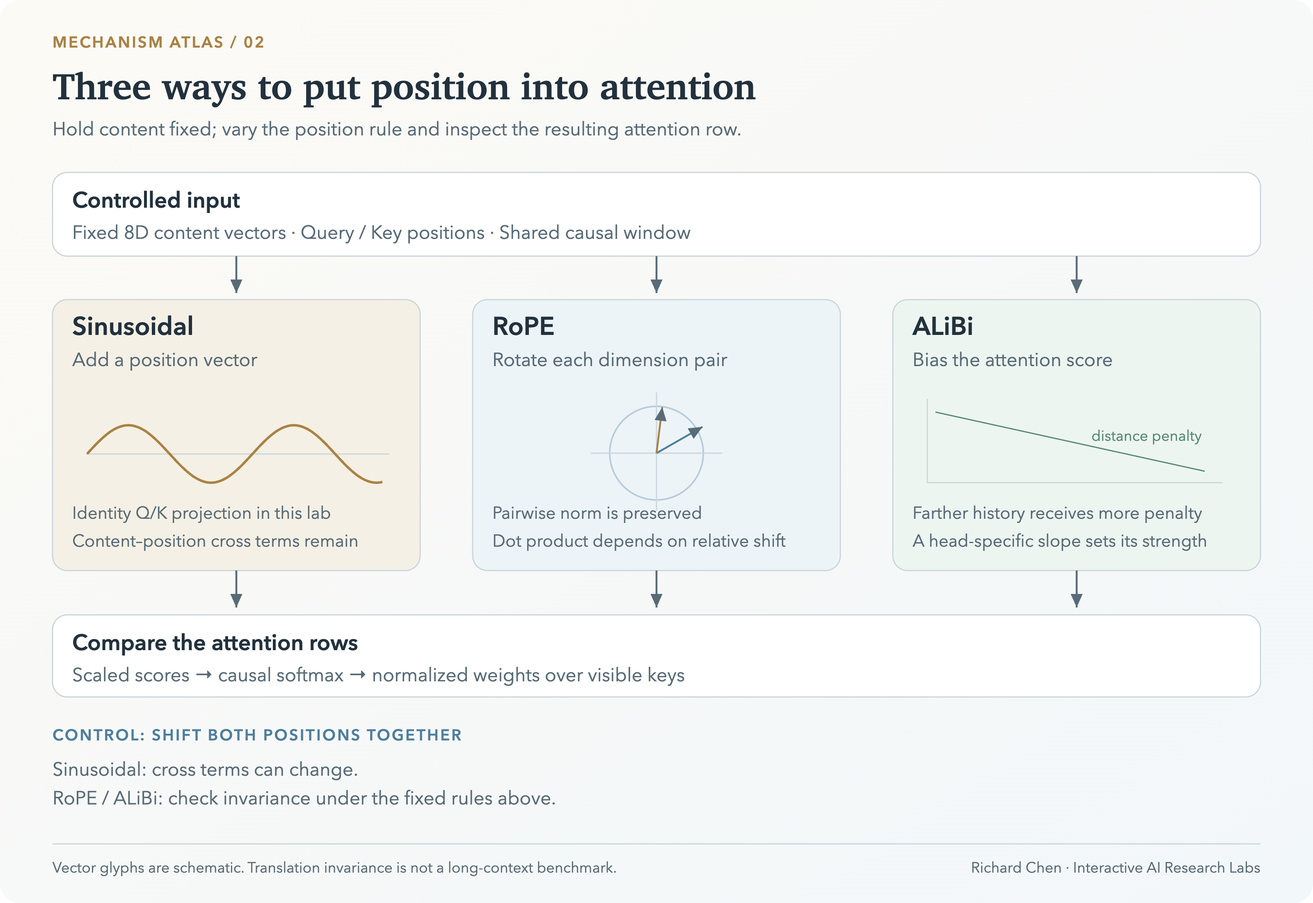
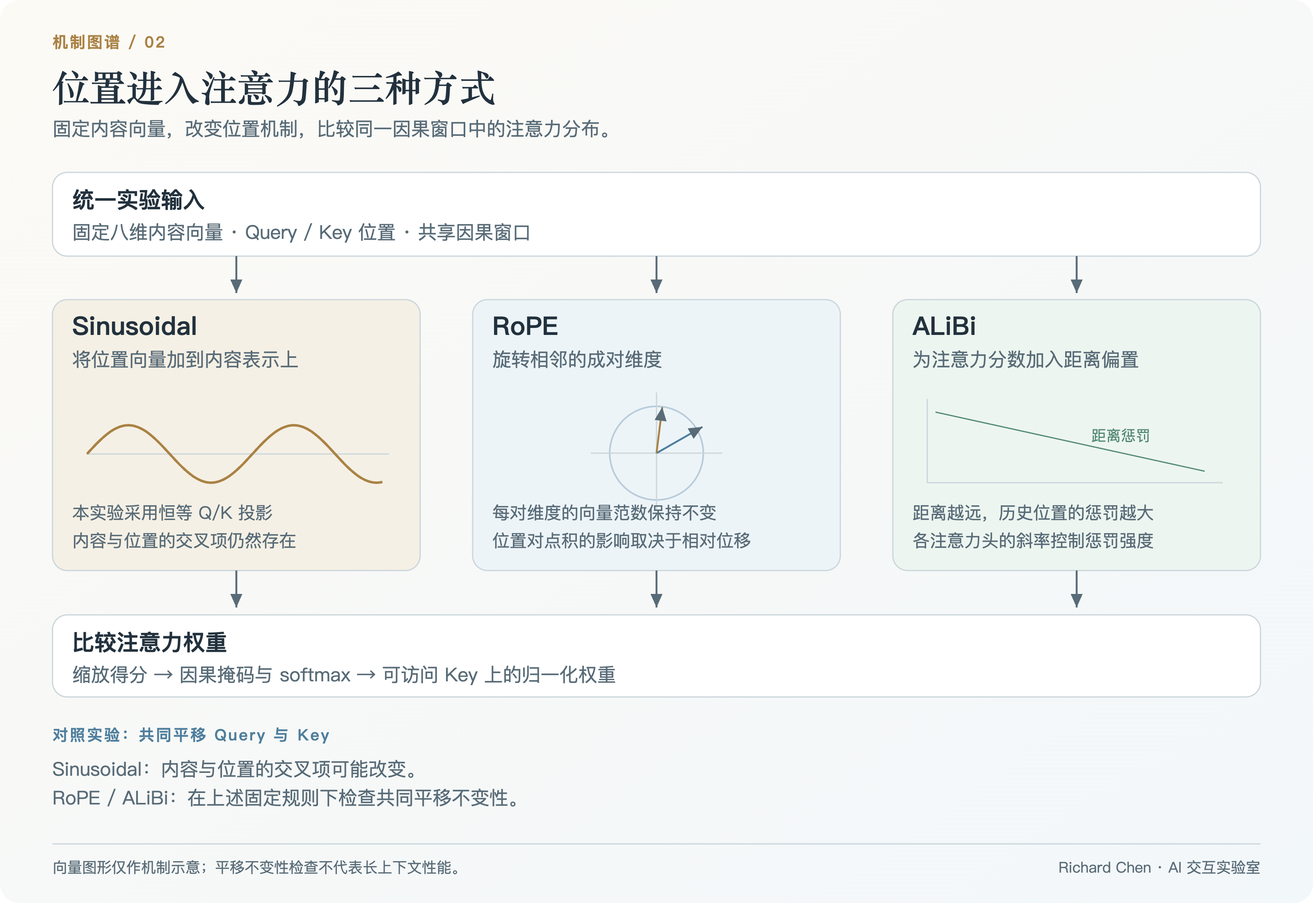
docs: 将中文设为默认文档并完善术语与框架图

diff --git a/README.md b/README.md
@@ -1,75 +1,75 @@
 # Position Encoding Lab
 
-**See how position becomes geometry.**
+**位置如何改变注意力：从向量几何到数值验证。**
 
-An interactive comparison of **Sinusoidal embeddings, RoPE, and ALiBi** under the same content vectors and causal window. Rotate a vector, shift a context, change a slope—and inspect exactly what happens to the attention score.
+在相同内容向量与因果窗口中，对比 **Sinusoidal、RoPE 和 ALiBi**。旋转向量、平移上下文、调节距离惩罚，再从注意力分数中检查每一次干预的结果。
 
-[**Open the lab ↗**](https://richardchen99.github.io/position-encoding-lab/) · [Research note · 中文](https://richardchen99.github.io/blog/position-encoding-lab-note/) · [中文 README](README.zh-CN.md) · [Quick start](#quick-start)
+[**进入实验室 ↗**](https://richardchen99.github.io/position-encoding-lab/) · [配套研究笔记](https://richardchen99.github.io/blog/position-encoding-lab-note/) · [English](README.en.md) · [本地运行](#本地运行)
 
-Created by **Richard Chen · Renmin University of China / 中国人民大学** · [Homepage](https://richardchen99.github.io)
+作者：**Richard Chen · 中国人民大学** · [个人主页](https://richardchen99.github.io)
 
-[![Position Encoding Lab showing rotary geometry, token selection, and attention comparison](docs/assets/overview.jpg)](https://richardchen99.github.io/position-encoding-lab/)
+[![位置编码实验室：旋转几何、token 选择与注意力对比](docs/assets/overview.jpg)](https://richardchen99.github.io/position-encoding-lab/)
 
-*Real application capture: vector geometry, numerical traces, and attention distributions share one experiment state.*
+*真实运行截图。向量几何、数值轨迹与注意力分布共享同一实验状态。*
 
-## Three mechanisms, one controlled experiment
+## 三种机制，一组受控实验
 
-| Mechanism | Intervention | What to inspect |
+| 机制 | 干预方式 | 观察重点 |
 | --- | --- | --- |
-| **Sinusoidal** | Add position vectors to fixed content | Content–position cross terms and the effect of moving the origin |
-| **RoPE** | Rotate adjacent dimension pairs | Preserved vector norms and relative-position dot products |
-| **ALiBi** | Subtract a distance-dependent score bias | How a head slope changes preference for recent keys |
-| **Shared comparison** | Shift Query and Key together | Which scores remain unchanged at a fixed relative distance |
+| **正弦位置编码（Sinusoidal）** | 将位置向量加到固定内容向量上 | 内容与位置的交叉项，以及原点移动的影响 |
+| **旋转位置编码（RoPE）** | 对相邻的成对维度进行旋转 | 向量范数保持，以及依赖相对位置的点积 |
+| **线性偏置（ALiBi）** | 在分数中减去距离惩罚 | 注意力头的斜率如何改变对较近 Key 的偏好 |
+| **共同对照** | 同时移动 Query 和 Key | 相对距离不变时，哪些分数保持不变 |
 
-Step through **content → position transform → score → softmax**, choose a dimension pair, and compare all three distributions side by side. Short and long sentence examples provide an intuitive frame; the fixed content vectors do not represent learned coreference. The interface uses English controls and Chinese explanations.
+逐步播放 **内容 → 位置变换 → 得分 → softmax**，选择参与旋转的维度对，并排检查三种注意力分布。长短句子用于建立直觉；内容向量固定，不表示已经学会指代关系。界面采用英文控件与中文解释，以下操作步骤保留控件原名，便于查找。
 
-## Experimental framework
+## 实验框架
 
-![Framework for comparing additive positions, rotary geometry, and linear attention bias under shared inputs](docs/assets/architecture.png)
+![共享输入经过位置相加、旋转与线性偏置三条路径，再进行数值对照](docs/assets/architecture.png)
 
-*Original schematic of the shared inputs, three mathematical branches, and numerical checks. [Editable SVG](docs/assets/architecture.svg) · [Figure provenance](docs/assets/README.md).*
+*原创框架图：统一输入、三条数学路径与对应检查。[可编辑 SVG](docs/assets/architecture.svg) · [图片来源与状态](docs/assets/README.md)。*
 
-## Try a translation-invariance test
+## 做一次平移不变性实验
 
-1. Select **RoPE**, use the short example with Query 5 and Key 1, and finish the four playback stages.
-2. Move **Shift both positions** from 0 to 24. The vectors rotate, while their relative-position score stays unchanged within floating-point precision.
-3. Select **Sinusoidal** and repeat. The additive experiment generally changes because its content–position cross terms depend on the origin.
-4. Select **ALiBi**, then increase **Head slope**. Distant causal keys receive a larger negative bias; shifting both positions preserves their distance.
+1. 选择 **RoPE**，在短句中使用 Query 5、Key 1，完成四个播放阶段。
+2. 将共同平移量（**Shift both positions**）从 0 调到 24。向量角度改变，但相对位置得分在浮点误差范围内保持不变。
+3. 切换 **Sinusoidal** 重复实验。位置相加后的内容/位置交叉项依赖原点，分数一般会变化。
+4. 切换 **ALiBi** 并增大注意力头斜率（**Head slope**）。更远的历史 Key 得到更大负偏置；共同平移仍保留相对距离。
 
-In the captured RoPE state, the displayed shift error is **zero**. This is a check of the implemented identity at display precision, not a long-context quality benchmark.
+截图中的 RoPE 平移误差显示为**零**。它是当前实现与显示精度下的恒等式检查，不是模型长上下文能力的基准测试。
 
 <details>
-<summary><strong>Inspect the shift test and attention comparison</strong></summary>
+<summary><strong>展开平移实验与注意力对比</strong></summary>
 
-![RoPE with Query 5, Key 1, shared position shift 24, and zero displayed score error](docs/assets/shift.jpg)
+![Query 5、Key 1、共同平移 24 的 RoPE 实验，得分误差显示为零](docs/assets/shift.jpg)
 
-*Common translation changes absolute angles while preserving the relative-position score.*
+*共同平移改变绝对角度，同时保留相对位置得分。*
 
-![Three attention distributions for the long sentence example with Query 11 and Key 2](docs/assets/comparison.jpg)
+![长句 Query 11、Key 2 下的三种注意力分布](docs/assets/comparison.jpg)
 
-*The longer example compares the three mechanisms under the same causal window.*
+*同一因果窗口中的三种位置机制，可以逐项对照。*
 
 </details>
 
-## Mathematical scope
+## 数学机制与实现范围
 
-RoPE applies a rotation to each adjacent dimension pair. With fixed frequencies:
+RoPE 对相邻维度对旋转。频率固定时：
 
 $$
 (R_mq)^\top(R_nk)=q^\top R_{n-m}k.
 $$
 
-ALiBi adds a linear penalty to causal attention scores:
+ALiBi 对因果注意力加入线性距离惩罚：
 
 $$
 s_{mn}=\frac{q_m^\top k_n}{\sqrt{d_k}}-a_h(m-n),\quad n\leq m.
 $$
 
-The Sinusoidal branch uses **fixed eight-dimensional content vectors, additive positions, and identity Q/K projections** to isolate the mechanism. Learned projections and trained model behavior are outside this experiment. The common-translation properties of RoPE and ALiBi do not establish extrapolation quality in a real language model.
+Sinusoidal 分支采用**固定八维内容向量、位置相加与恒等 Q/K 投影**，用于隔离机制。实验不涉及学习投影或训练模型。RoPE 与 ALiBi 的共同平移性质，不能直接证明真实语言模型的长度外推效果。
 
-## Quick start
+## 本地运行
 
-Use **Node.js 24**; the supported minimum is 22.12.
+推荐 **Node.js 24**，最低支持 22.12。
 
 ```bash
 git clone https://github.com/richardchen99/position-encoding-lab.git
@@ -84,36 +84,36 @@ npm run build
 npm run preview -- --host 127.0.0.1
 ```
 
-All experiment calculations run in the browser; no model service, API key, or GPU is required. Built with React 19, TypeScript, Vite, Framer Motion, and KaTeX.
+实验计算在浏览器内完成，无需模型服务、API 密钥或 GPU。技术栈为 React 19、TypeScript、Vite、Framer Motion 与 KaTeX。
 
-## Implementation and verification
+## 实现与验证
 
-| Entry point | Responsibility |
+| 入口 | 重点 |
 | --- | --- |
-| [`src/model.ts`](src/model.ts) | Position vectors, rotations, score biases, and stable softmax |
-| [`src/App.tsx`](src/App.tsx) | Experiment state, token selection, geometry, and numerical views |
-| [`src/shared.tsx`](src/shared.tsx) · [`src/style.css`](src/style.css) | Formulas, animation, glass panels, and reduced-motion support |
-| [`tests/model.test.mjs`](tests/model.test.mjs) | Norm preservation, relative-position identity, ALiBi invariance, and normalization |
+| [`src/model.ts`](src/model.ts) | 位置向量、旋转、分数偏置与稳定 softmax |
+| [`src/App.tsx`](src/App.tsx) | 实验状态、词元选择、几何与数值视图 |
+| [`src/shared.tsx`](src/shared.tsx) · [`src/style.css`](src/style.css) | 公式、动画、玻璃面板与减少动态效果的无障碍支持 |
+| [`tests/model.test.mjs`](tests/model.test.mjs) | 范数保持、相对位置恒等式、ALiBi 不变性与归一化 |
 
-`npm test` compiles the model and runs the Node test runner. The [Pages workflow](.github/workflows/deploy.yml) tests, type-checks, builds, and deploys `main` using Node 24. For a fork, select **GitHub Actions** as the Pages source.
+`npm test` 编译计算模型后，使用 Node 内置测试运行器执行验证。[Pages 工作流](.github/workflows/deploy.yml) 使用 Node 24 完成测试、类型检查、构建与 `main` 分支部署。Fork 仓库后，在 Pages 设置中将部署来源设为 **GitHub Actions** 即可部署。
 
-## Reading and citation
+## 阅读与引用
 
-- Vaswani et al. [*Attention Is All You Need*](https://arxiv.org/abs/1706.03762), 2017 — sinusoidal positional encoding.
-- Su et al. [*RoFormer: Enhanced Transformer with Rotary Position Embedding*](https://arxiv.org/abs/2104.09864), 2021 preprint — rotary position geometry.
-- Press et al. [*Train Short, Test Long: Attention with Linear Biases Enables Input Length Extrapolation*](https://arxiv.org/abs/2108.12409), 2021 preprint — ALiBi.
-- [Project research note](https://richardchen99.github.io/blog/position-encoding-lab-note/) — the experiment explained in Chinese.
+- Vaswani 等：[Attention Is All You Need](https://arxiv.org/abs/1706.03762)，2017，正弦位置编码。
+- Su 等：[RoFormer](https://arxiv.org/abs/2104.09864)，2021 预印本，旋转位置编码。
+- Press 等：[Train Short, Test Long](https://arxiv.org/abs/2108.12409)，2021 预印本，ALiBi。
+- [配套研究笔记](https://richardchen99.github.io/blog/position-encoding-lab-note/)，中文实验导读。
 
-For teaching or writing, link to this repository and record the commit used. [CITATION.cff](CITATION.cff) provides machine-readable software attribution.
+用于课程或文章时，可链接本仓库并记录所用提交版本。[CITATION.cff](CITATION.cff) 提供机器可读的软件署名信息。
 
-## Explore the series
+## 系列实验室
 
-| Lab | Central question |
+| 项目 | 核心问题 |
 | --- | --- |
-| [Tokenizer Playground](https://github.com/richardchen99/tokenizer-playground) | How does a corpus become a reusable vocabulary? |
-| [Transformer Architecture Lab](https://github.com/richardchen99/transformer-architecture-lab) | How does attention turn token representations into context? |
-| **Position Encoding Lab** | How does position change attention geometry? |
-| [LLM Inference Lab](https://github.com/richardchen99/llm-inference-lab) | When can past computation be reused? |
-| [LLM RL Lab](https://github.com/richardchen99/llm-rl-lab) | How does reward change a response distribution? |
+| [Tokenizer Playground](https://github.com/richardchen99/tokenizer-playground) | 语料怎样变成可复用词表？ |
+| [Transformer Architecture Lab](https://github.com/richardchen99/transformer-architecture-lab) | 注意力怎样将词元表示转为上下文？ |
+| **Position Encoding Lab** | 位置怎样改变注意力几何？ |
+| [LLM Inference Lab](https://github.com/richardchen99/llm-inference-lab) | 什么条件下可以复用历史计算？ |
+| [LLM RL Lab](https://github.com/richardchen99/llm-rl-lab) | 奖励怎样改变回答分布？ |
 
-Found it useful? A star helps others discover the series. Contributions that add well-specified mechanisms or stronger numerical checks are welcome.
+如果它对你的学习或教学有帮助，欢迎点亮 Star。也欢迎补充有明确数学定义的位置机制，或完善数值验证。

diff --git a/README.en.md b/README.en.md
@@ -1,0 +1,119 @@
+# Position Encoding Lab
+
+**How position shapes attention: from vector geometry to numerical verification.**
+
+An interactive comparison of **Sinusoidal embeddings, RoPE, and ALiBi** under the same content vectors and causal window. Rotate a vector, shift a context, change a slope—and inspect exactly what happens to the attention score.
+
+[**Open the lab ↗**](https://richardchen99.github.io/position-encoding-lab/) · [Research note · 中文](https://richardchen99.github.io/blog/position-encoding-lab-note/) · [简体中文](README.md) · [Quick start](#quick-start)
+
+Created by **Richard Chen · Renmin University of China / 中国人民大学** · [Homepage](https://richardchen99.github.io)
+
+[![Position Encoding Lab showing rotary geometry, token selection, and attention comparison](docs/assets/overview.jpg)](https://richardchen99.github.io/position-encoding-lab/)
+
+*Real application capture: vector geometry, numerical traces, and attention distributions share one experiment state.*
+
+## Three mechanisms, one controlled experiment
+
+| Mechanism | Intervention | What to inspect |
+| --- | --- | --- |
+| **Sinusoidal** | Add position vectors to fixed content | Content–position cross terms and the effect of moving the origin |
+| **RoPE** | Rotate adjacent dimension pairs | Preserved vector norms and relative-position dot products |
+| **ALiBi** | Subtract a distance-dependent score bias | How a head slope changes preference for recent keys |
+| **Shared comparison** | Shift Query and Key together | Which scores remain unchanged at a fixed relative distance |
+
+Step through **content → position transform → score → softmax**, choose a dimension pair, and compare all three distributions side by side. Short and long sentence examples provide an intuitive frame; the fixed content vectors do not represent learned coreference. The interface uses English controls and Chinese explanations.
+
+## Experimental framework
+
+![Framework for comparing additive positions, rotary geometry, and linear attention bias under shared inputs](docs/assets/architecture.en.png)
+
+*Original schematic of the shared inputs, three mathematical branches, and numerical checks. [Editable SVG](docs/assets/architecture.en.svg) · [Figure provenance · 中文](docs/assets/README.md).*
+
+## Try a translation-invariance test
+
+1. Select **RoPE**, use the short example with Query 5 and Key 1, and finish the four playback stages.
+2. Move **Shift both positions** from 0 to 24. The vectors rotate, while their relative-position score stays unchanged within floating-point precision.
+3. Select **Sinusoidal** and repeat. The additive experiment generally changes because its content–position cross terms depend on the origin.
+4. Select **ALiBi**, then increase **Head slope**. Distant causal keys receive a larger negative bias; shifting both positions preserves their distance.
+
+In the captured RoPE state, the displayed shift error is **zero**. This is a check of the implemented identity at display precision, not a long-context quality benchmark.
+
+<details>
+<summary><strong>Inspect the shift test and attention comparison</strong></summary>
+
+![RoPE with Query 5, Key 1, shared position shift 24, and zero displayed score error](docs/assets/shift.jpg)
+
+*Common translation changes absolute angles while preserving the relative-position score.*
+
+![Three attention distributions for the long sentence example with Query 11 and Key 2](docs/assets/comparison.jpg)
+
+*The longer example compares the three mechanisms under the same causal window.*
+
+</details>
+
+## Mathematical scope
+
+RoPE applies a rotation to each adjacent dimension pair. With fixed frequencies:
+
+$$
+(R_mq)^\top(R_nk)=q^\top R_{n-m}k.
+$$
+
+ALiBi adds a linear penalty to causal attention scores:
+
+$$
+s_{mn}=\frac{q_m^\top k_n}{\sqrt{d_k}}-a_h(m-n),\quad n\leq m.
+$$
+
+The Sinusoidal branch uses **fixed eight-dimensional content vectors, additive positions, and identity Q/K projections** to isolate the mechanism. Learned projections and trained model behavior are outside this experiment. The common-translation properties of RoPE and ALiBi do not establish extrapolation quality in a real language model.
+
+## Quick start
+
+Use **Node.js 24**; the supported minimum is 22.12.
+
+```bash
+git clone https://github.com/richardchen99/position-encoding-lab.git
+cd position-encoding-lab
+npm ci
+npm run dev -- --host 127.0.0.1
+```
+
+```bash
+npm test
+npm run build
+npm run preview -- --host 127.0.0.1
+```
+
+All experiment calculations run in the browser; no model service, API key, or GPU is required. Built with React 19, TypeScript, Vite, Framer Motion, and KaTeX.
+
+## Implementation and verification
+
+| Entry point | Responsibility |
+| --- | --- |
+| [`src/model.ts`](src/model.ts) | Position vectors, rotations, score biases, and stable softmax |
+| [`src/App.tsx`](src/App.tsx) | Experiment state, token selection, geometry, and numerical views |
+| [`src/shared.tsx`](src/shared.tsx) · [`src/style.css`](src/style.css) | Formulas, animation, glass panels, and reduced-motion support |
+| [`tests/model.test.mjs`](tests/model.test.mjs) | Norm preservation, relative-position identity, ALiBi invariance, and normalization |
+
+`npm test` compiles the model and runs the Node test runner. The [Pages workflow](.github/workflows/deploy.yml) tests, type-checks, builds, and deploys `main` using Node 24. For a fork, select **GitHub Actions** as the Pages source.
+
+## Reading and citation
+
+- Vaswani et al. [*Attention Is All You Need*](https://arxiv.org/abs/1706.03762), 2017 — sinusoidal positional encoding.
+- Su et al. [*RoFormer: Enhanced Transformer with Rotary Position Embedding*](https://arxiv.org/abs/2104.09864), 2021 preprint — rotary position geometry.
+- Press et al. [*Train Short, Test Long: Attention with Linear Biases Enables Input Length Extrapolation*](https://arxiv.org/abs/2108.12409), 2021 preprint — ALiBi.
+- [Project research note](https://richardchen99.github.io/blog/position-encoding-lab-note/) — the experiment explained in Chinese.
+
+For teaching or writing, link to this repository and record the commit used. [CITATION.cff](CITATION.cff) provides machine-readable software attribution.
+
+## Explore the series
+
+| Lab | Central question |
+| --- | --- |
+| [Tokenizer Playground](https://github.com/richardchen99/tokenizer-playground) | How does a corpus become a reusable vocabulary? |
+| [Transformer Architecture Lab](https://github.com/richardchen99/transformer-architecture-lab) | How does attention turn token representations into context? |
+| **Position Encoding Lab** | How does position change attention geometry? |
+| [LLM Inference Lab](https://github.com/richardchen99/llm-inference-lab) | When can past computation be reused? |
+| [LLM RL Lab](https://github.com/richardchen99/llm-rl-lab) | How does reward change a response distribution? |
+
+Found it useful? A star helps others discover the series. Contributions that add well-specified mechanisms or stronger numerical checks are welcome.

diff --git a/README.zh-CN.md b/README.zh-CN.md
@@ -1,12 +1,12 @@
 # Position Encoding Lab
 
-**看见位置如何成为几何。**
+**位置如何改变注意力：从向量几何到数值验证。**
 
 在相同内容向量与因果窗口中，对比 **Sinusoidal、RoPE 和 ALiBi**。旋转向量、平移上下文、调节距离惩罚，再从注意力分数中检查每一次干预的结果。
 
-[**进入实验室 ↗**](https://richardchen99.github.io/position-encoding-lab/) · [配套研究笔记](https://richardchen99.github.io/blog/position-encoding-lab-note/) · [English README](README.md) · [本地运行](#本地运行)
+[**进入实验室 ↗**](https://richardchen99.github.io/position-encoding-lab/) · [配套研究笔记](https://richardchen99.github.io/blog/position-encoding-lab-note/) · [English](README.en.md) · [本地运行](#本地运行)
 
-作者：**Richard Chen · 中国人民大学 / Renmin University of China** · [个人主页](https://richardchen99.github.io)
+作者：**Richard Chen · 中国人民大学** · [个人主页](https://richardchen99.github.io)
 
 [![位置编码实验室：旋转几何、token 选择与注意力对比](docs/assets/overview.jpg)](https://richardchen99.github.io/position-encoding-lab/)
 
@@ -16,12 +16,12 @@
 
 | 机制 | 干预方式 | 观察重点 |
 | --- | --- | --- |
-| **Sinusoidal** | 将位置向量加到固定内容上 | 内容与位置的交叉项，以及原点移动的影响 |
-| **RoPE** | 对相邻维度对进行旋转 | 向量范数保持，以及依赖相对位置的点积 |
-| **ALiBi** | 在分数中减去距离惩罚 | Head slope 如何改变对近期 Key 的偏好 |
+| **正弦位置编码（Sinusoidal）** | 将位置向量加到固定内容向量上 | 内容与位置的交叉项，以及原点移动的影响 |
+| **旋转位置编码（RoPE）** | 对相邻的成对维度进行旋转 | 向量范数保持，以及依赖相对位置的点积 |
+| **线性偏置（ALiBi）** | 在分数中减去距离惩罚 | 注意力头的斜率如何改变对较近 Key 的偏好 |
 | **共同对照** | 同时移动 Query 和 Key | 相对距离不变时，哪些分数保持不变 |
 
-逐步播放 **内容 → 位置变换 → 得分 → softmax**，选择维度对，并排检查三种注意力分布。长短句子用于建立直觉；内容向量固定，不表示已经学会指代关系。界面采用英文控件与中文解释。
+逐步播放 **内容 → 位置变换 → 得分 → softmax**，选择参与旋转的维度对，并排检查三种注意力分布。长短句子用于建立直觉；内容向量固定，不表示已经学会指代关系。界面采用英文控件与中文解释，以下操作步骤保留控件原名，便于查找。
 
 ## 实验框架
 
@@ -32,9 +32,9 @@
 ## 做一次平移不变性实验
 
 1. 选择 **RoPE**，在短句中使用 Query 5、Key 1，完成四个播放阶段。
-2. 将 **Shift both positions** 从 0 调到 24。向量角度改变，但相对位置得分在浮点误差范围内保持不变。
+2. 将共同平移量（**Shift both positions**）从 0 调到 24。向量角度改变，但相对位置得分在浮点误差范围内保持不变。
 3. 切换 **Sinusoidal** 重复实验。位置相加后的内容/位置交叉项依赖原点，分数一般会变化。
-4. 切换 **ALiBi** 并增大 **Head slope**。更远的历史 Key 得到更大负偏置；共同平移仍保留相对距离。
+4. 切换 **ALiBi** 并增大注意力头斜率（**Head slope**）。更远的历史 Key 得到更大负偏置；共同平移仍保留相对距离。
 
 截图中的 RoPE 平移误差显示为**零**。它是当前实现与显示精度下的恒等式检查，不是模型长上下文能力的基准测试。
 
@@ -91,11 +91,11 @@ npm run preview -- --host 127.0.0.1
 | 入口 | 重点 |
 | --- | --- |
 | [`src/model.ts`](src/model.ts) | 位置向量、旋转、分数偏置与稳定 softmax |
-| [`src/App.tsx`](src/App.tsx) | 实验状态、token 选择、几何与数值视图 |
-| [`src/shared.tsx`](src/shared.tsx) · [`src/style.css`](src/style.css) | 公式、动画、玻璃面板与 reduced-motion 支持 |
+| [`src/App.tsx`](src/App.tsx) | 实验状态、词元选择、几何与数值视图 |
+| [`src/shared.tsx`](src/shared.tsx) · [`src/style.css`](src/style.css) | 公式、动画、玻璃面板与减少动态效果的无障碍支持 |
 | [`tests/model.test.mjs`](tests/model.test.mjs) | 范数保持、相对位置恒等式、ALiBi 不变性与归一化 |
 
-`npm test` 编译计算模型后运行 Node test runner。[Pages 工作流](.github/workflows/deploy.yml) 使用 Node 24 测试、类型检查、构建并部署 `main`。Fork 后，将 Pages source 设为 **GitHub Actions** 即可部署。
+`npm test` 编译计算模型后，使用 Node 内置测试运行器执行验证。[Pages 工作流](.github/workflows/deploy.yml) 使用 Node 24 完成测试、类型检查、构建与 `main` 分支部署。Fork 仓库后，在 Pages 设置中将部署来源设为 **GitHub Actions** 即可部署。
 
 ## 阅读与引用
 
@@ -104,16 +104,16 @@ npm run preview -- --host 127.0.0.1
 - Press 等：[Train Short, Test Long](https://arxiv.org/abs/2108.12409)，2021 预印本，ALiBi。
 - [配套研究笔记](https://richardchen99.github.io/blog/position-encoding-lab-note/)，中文实验导读。
 
-用于课程或文章时，可链接本仓库并记录所用 commit。[CITATION.cff](CITATION.cff) 提供机器可读的软件署名信息。
+用于课程或文章时，可链接本仓库并记录所用提交版本。[CITATION.cff](CITATION.cff) 提供机器可读的软件署名信息。
 
 ## 系列实验室
 
 | 项目 | 核心问题 |
 | --- | --- |
 | [Tokenizer Playground](https://github.com/richardchen99/tokenizer-playground) | 语料怎样变成可复用词表？ |
-| [Transformer Architecture Lab](https://github.com/richardchen99/transformer-architecture-lab) | Attention 怎样把 token 表示转为上下文？ |
+| [Transformer Architecture Lab](https://github.com/richardchen99/transformer-architecture-lab) | 注意力怎样将词元表示转为上下文？ |
 | **Position Encoding Lab** | 位置怎样改变注意力几何？ |
 | [LLM Inference Lab](https://github.com/richardchen99/llm-inference-lab) | 什么条件下可以复用历史计算？ |
 | [LLM RL Lab](https://github.com/richardchen99/llm-rl-lab) | 奖励怎样改变回答分布？ |
 
-如果它对你的学习或教学有帮助，欢迎点亮 Star。也欢迎增加定义清楚的位置机制，或补充更扎实的数值检查。
+如果它对你的学习或教学有帮助，欢迎点亮 Star。也欢迎补充有明确数学定义的位置机制，或完善数值验证。

diff --git a/docs/assets/README.md b/docs/assets/README.md
@@ -1,13 +1,16 @@
-# Documentation figures
+# 图片来源与实验状态
 
-All screenshots are captures of the running [Position Encoding Lab](https://richardchen99.github.io/position-encoding-lab/) using public built-in examples. They show application content only and are also used in the [project research note](https://richardchen99.github.io/blog/position-encoding-lab-note/). Capture date: **2026-09-18**.
+截图均采自实际运行的 [Position Encoding Lab](https://richardchen99.github.io/position-encoding-lab/)，使用公开的内置案例，仅包含应用内容，也用于[配套研究笔记](https://richardchen99.github.io/blog/position-encoding-lab-note/)。截图日期：**2026-09-18**。
 
-| File | Captured state |
+| 文件 | 截图状态 |
 | --- | --- |
-| [`overview.jpg`](overview.jpg) | RoPE geometry and the shared attention workbench |
-| [`shift.jpg`](shift.jpg) | Short example; Query 5, Key 1; shared position shift 24; zero displayed score error |
-| [`comparison.jpg`](comparison.jpg) | Long example; Query 11, Key 2; shift 0; three attention distributions |
+| [`overview.jpg`](overview.jpg) | RoPE 旋转几何与共享注意力实验面板 |
+| [`shift.jpg`](shift.jpg) | 短句案例；Query 5、Key 1；共同平移 24；得分误差显示为零 |
+| [`comparison.jpg`](comparison.jpg) | 长句案例；Query 11、Key 2；平移量 0；三种注意力分布 |
 
-[`architecture.svg`](architecture.svg) is an original, editable vector schematic prepared for this repository. [`architecture.png`](architecture.png) is its 3,200-pixel-wide raster export. It shows shared inputs, the three position mechanisms, and numerical observations; see the [README](../../README.md#mathematical-scope) for assumptions.
+框架图采用统一布局，展示共享输入、三种位置机制与数值对照。实验假设见 [README](../../README.md#数学机制与实现范围)。
 
-No screenshot is a synthetic interface image. The framework diagram is drawn with vector shapes and text, not generated by a text-to-image model. Figures contain no editor windows, browser chrome, local paths, or private account details. Numerical values illustrate the stated experiment and are not performance benchmarks.
+- 中文版：[高清 PNG](architecture.png) · [可编辑 SVG](architecture.svg)
+- 英文版：[高清 PNG](architecture.en.png) · [可编辑 SVG](architecture.en.svg)
+
+PNG 宽度为 3,200 像素。框架图由矢量图形与文字绘制，截图来自真实界面，均未使用文生图模型。图片不包含编辑器窗口、浏览器边框、本机路径或私人账户信息；数值仅对应所述实验，不作为性能基准。
